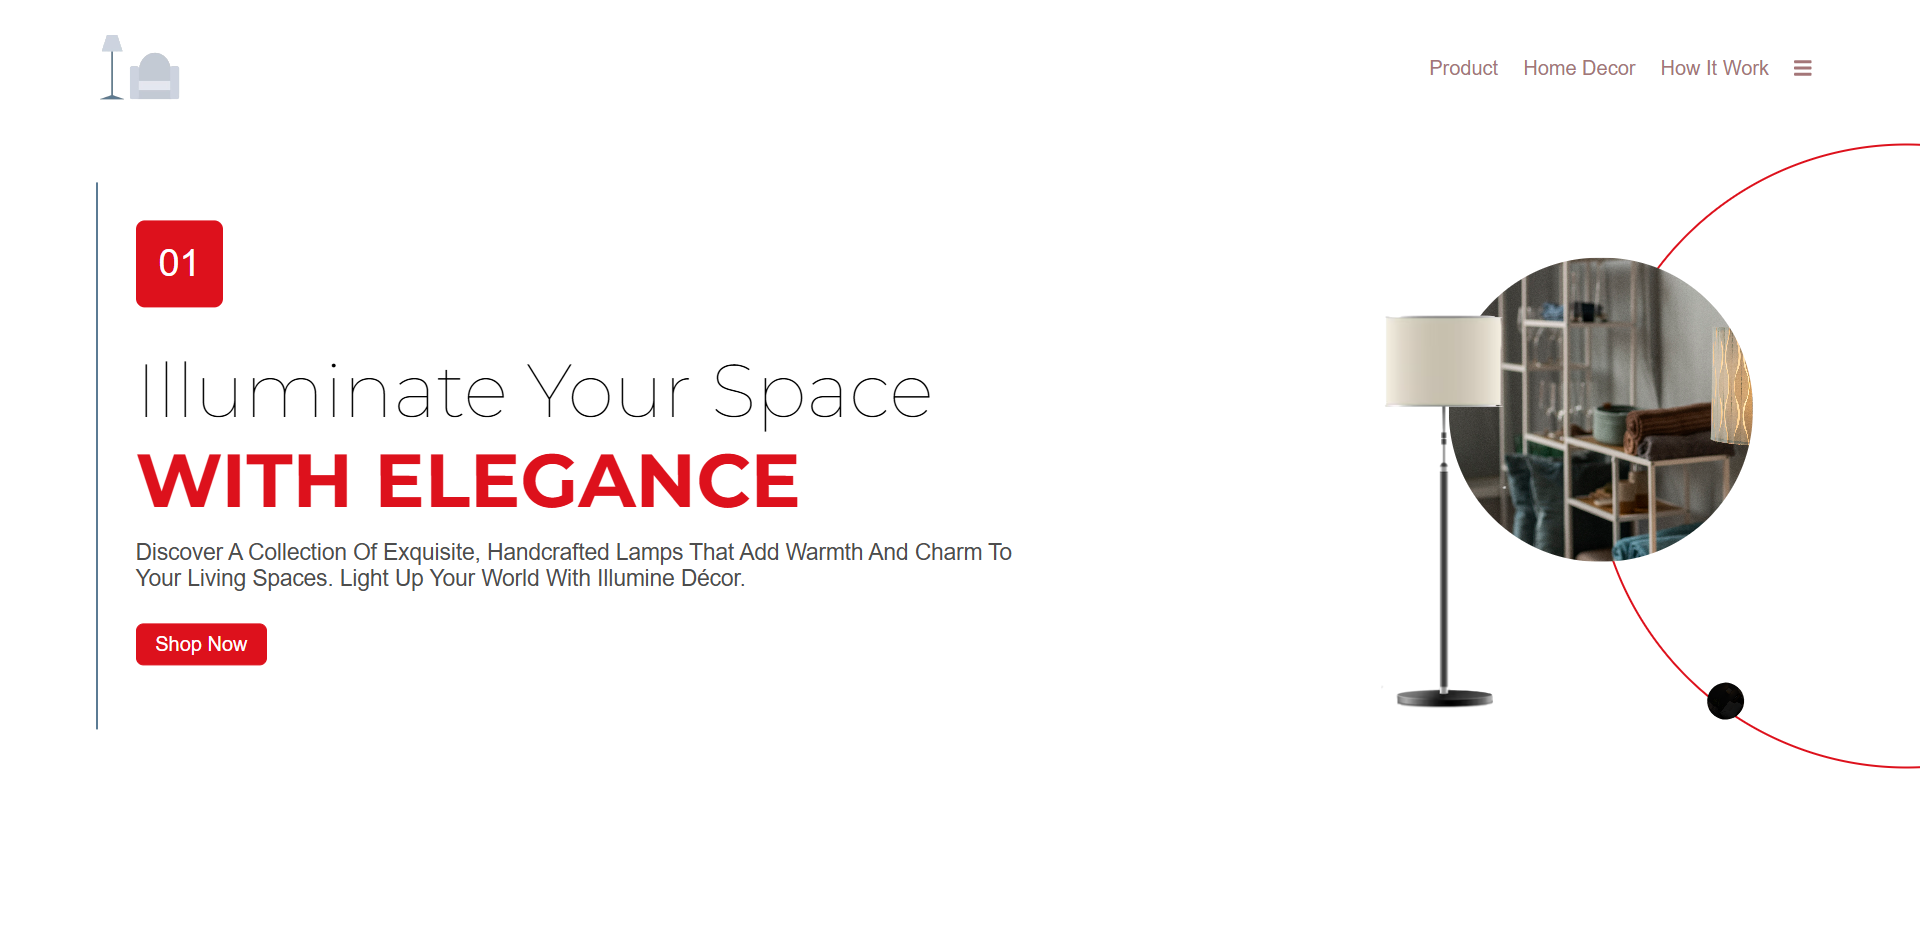
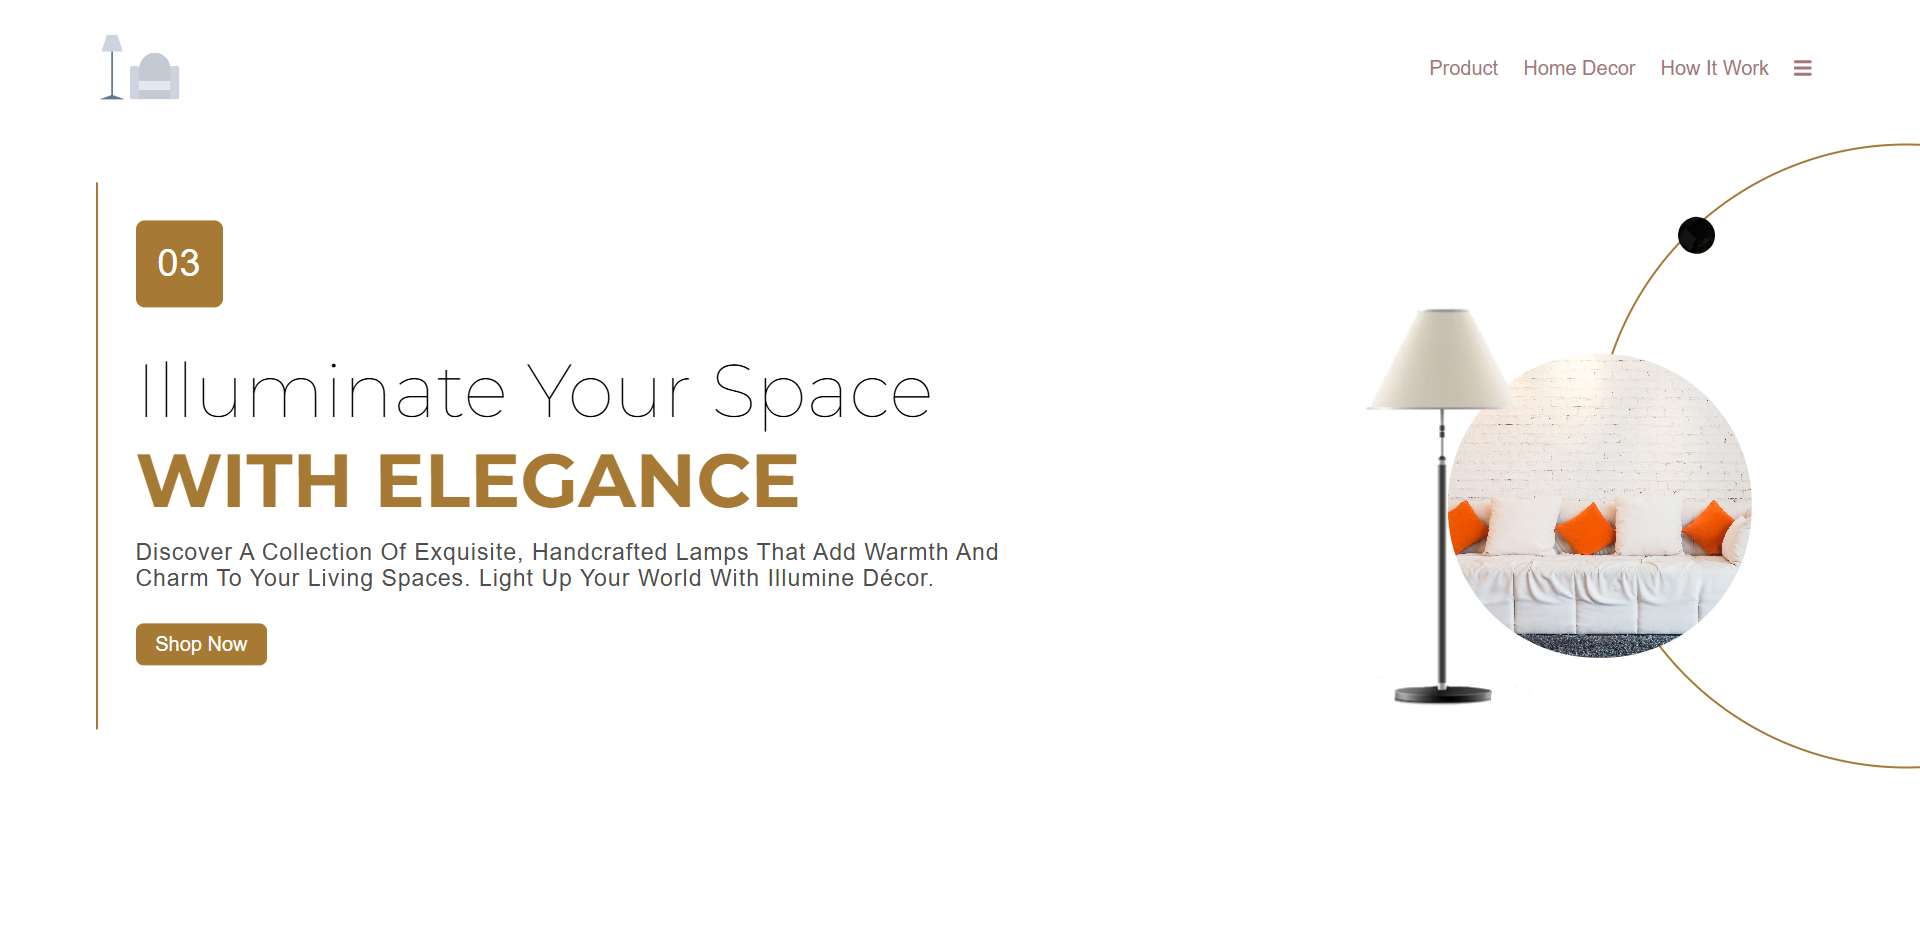
uploading files

diff --git a/style.css b/style.css
@@ -58,7 +58,7 @@ a{
     transition: all .5s;
 }
 a:hover{
-    color: #dd111c;
+    color: #a67a34;
     text-decoration: underline;
 }
 .logo img{
@@ -67,7 +67,7 @@ a:hover{
 .circle{
     width: 500px;
     height: 500px;
-    border: 2px solid #dd111c;
+    border: 2px solid #a67a34;
     border-radius: 50%;
     position: absolute;
     top: 50%;
@@ -139,7 +139,7 @@ a:hover{
     top: 50%;
     transform: translateY(-50%);
     padding-left: 30px;
-    border-left: 2px solid #5b7b94;
+    border-left: 2px solid #a67a34;
 }
 .slide-index{
     width: 70px;
@@ -147,7 +147,7 @@ a:hover{
     display: flex;
     justify-content: center;
     align-items: center;
-    background: #dd111c;
+    background: #a67a34;
     margin: 30px 0;
     border-radius: 7px;
 }
@@ -163,7 +163,7 @@ h1{
     font-size: 60px;
     text-transform: uppercase;
     font-weight: 700;
-    color: #dd111c;
+    color: #a67a34;
     line-height: 1.2;
 }
 h1.anim{
@@ -179,15 +179,16 @@ p{
     font-size: 18px;
     color: #4d4d4d;
     margin-top: 12px;
+    letter-spacing: 1px;
 }
 p.anim{
     animation-delay: .2s;
 }
 button{
-    background-color: #dd111c;
+    background-color: #a67a34;
     padding: 7px 15px;
     margin: 25px 0;
-    border: 1px solid #dd111c;
+    border: 1px solid #a67a34;
     border-radius: 6px;
     color: #fff;
     font-size: 16px;
@@ -201,9 +202,9 @@ button.anim{
 
 button:hover{
     background-color: #fff;
-    color: #dd111c;
+    color: #a67a34;
     letter-spacing: .2px;
-    box-shadow: 4px 4px 24px #f27e84;
+    box-shadow: 4px 4px 24px #e9cea1;
 }
 
 /* ANIMATION EFFECT */
